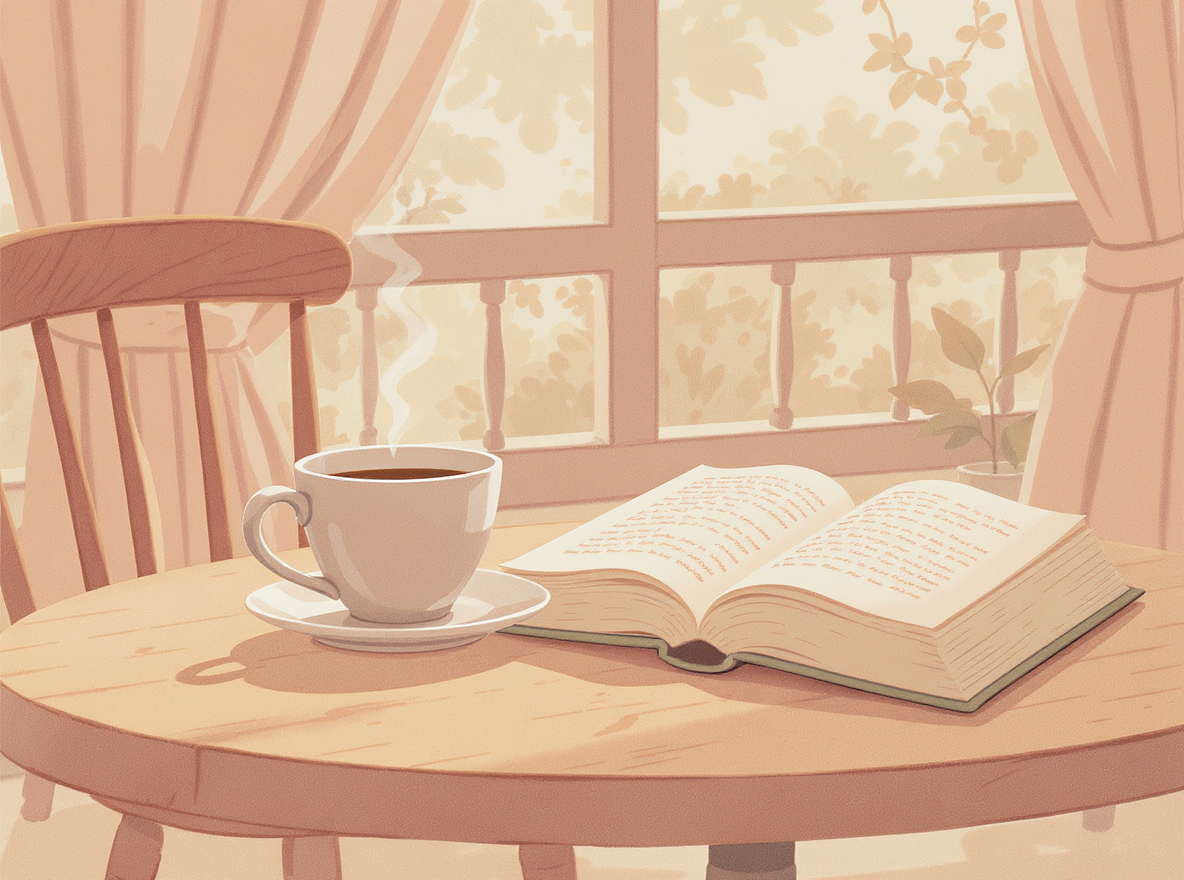
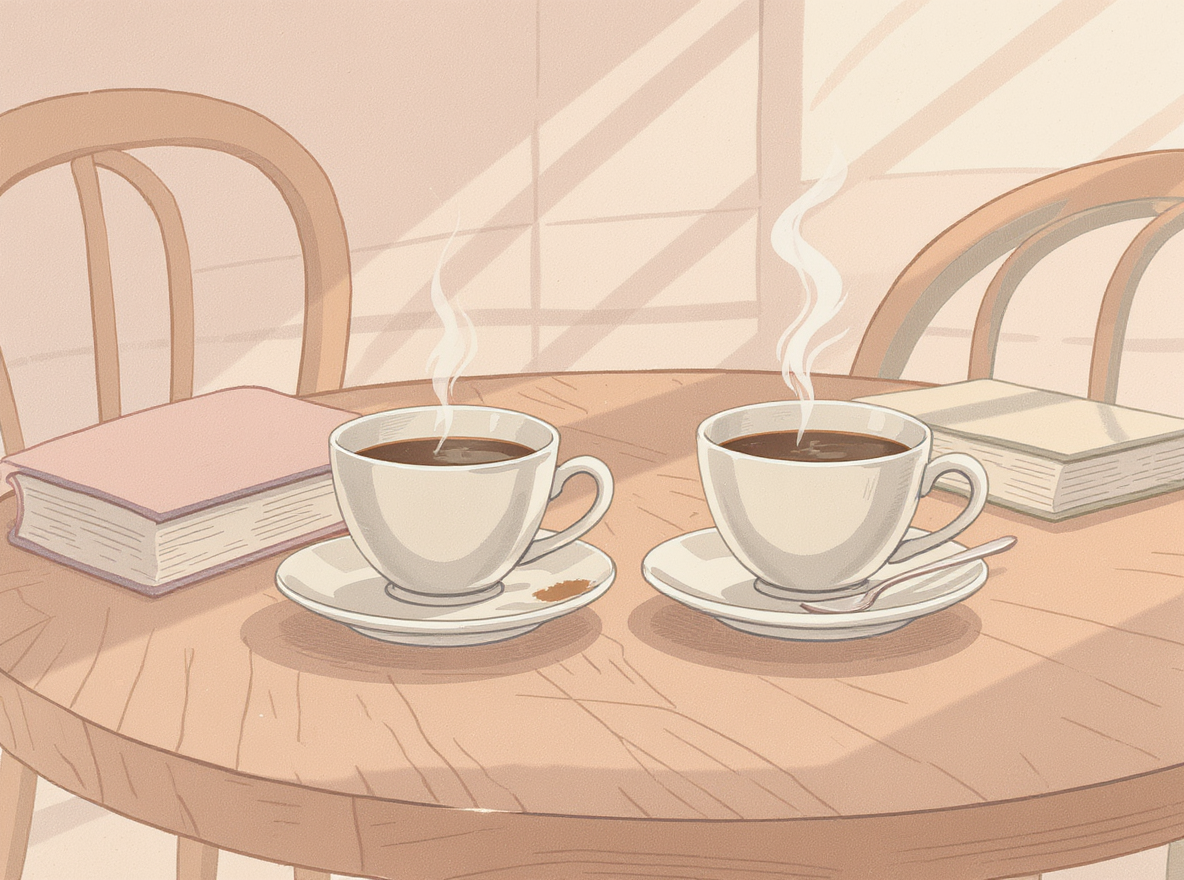
fix(image): canvaskit + cached_network_image for cross-origin PNGs
The HTML renderer fix from c66a918 introduced a worse problem: Flutter
web's html renderer breaks variable-font letter-spacing for Manrope, so
word boundaries collapse on screen ("I _____ thisemailthreetimes—
pleasereaditcarefully"). Reverting to the canvaskit renderer (default).

Cross-origin canvaskit needs the image to be loaded with `crossOrigin =
"anonymous"` so the canvas does not get tainted. `Image.network` does not
expose that flag. Adding `cached_network_image` (3.3.x — pinned for the
Dart 3.4 cap that Render's Flutter 3.22.2 image still imposes) which
fetches via dart:html with the right CORS attributes and gives us nicer
loading/error builders for free. `MasteryExerciseImage` now wraps
`CachedNetworkImage` while keeping the visual contract from DESIGN.md
§15 unchanged.

Also reshooting the U02_L01 cafe scene per learner feedback: a single
empty cup did not make "I have been waiting for an hour" obvious. The
new brief asks for two empty cups + a closed book in warm afternoon
light, which lands the elapsed-time signal far more cleanly without
revealing the grammatical form (no clocks, no people, no time
indicators). Regenerated via kie.ai Flux Kontext, sidecar metadata
updated.

diff --git a/app/lib/widgets/mastery_exercise_image.dart b/app/lib/widgets/mastery_exercise_image.dart
@@ -1,9 +1,12 @@
 // MasteryExerciseImage — visual context layer panel for any exercise type
 // per DESIGN.md §15 (added when imagery support landed). Soft paper card
 // with rose-cream loading skeleton and a tertiary fail state that does not
-// block the exercise. Loads via Image.network with a loadingBuilder so we
-// don't add a third-party dependency just for one widget.
+// block the exercise. Uses cached_network_image so cross-origin PNGs from
+// the backend's /images mount load cleanly under Flutter web's canvaskit
+// renderer (Image.network alone hits the canvas-tainting trap when the
+// image lives on a different origin than the SPA).
 
+import 'package:cached_network_image/cached_network_image.dart';
 import 'package:flutter/material.dart';
 
 import '../config.dart';
@@ -42,16 +45,11 @@ class MasteryExerciseImage extends StatelessWidget {
             color: tokens.bgPrimarySoft,
             border: Border.all(color: tokens.borderSoft),
           ),
-          child: Image.network(
-            _resolveUrl(),
+          child: CachedNetworkImage(
+            imageUrl: _resolveUrl(),
             fit: BoxFit.cover,
-            semanticLabel: image.alt,
-            gaplessPlayback: true,
-            loadingBuilder: (context, child, progress) {
-              if (progress == null) return child;
-              return _ImageSkeleton(tokens: tokens);
-            },
-            errorBuilder: (context, _, __) => _ImageUnavailable(
+            placeholder: (_, __) => _ImageSkeleton(tokens: tokens),
+            errorWidget: (_, __, ___) => _ImageUnavailable(
               alt: image.alt,
               tokens: tokens,
             ),
